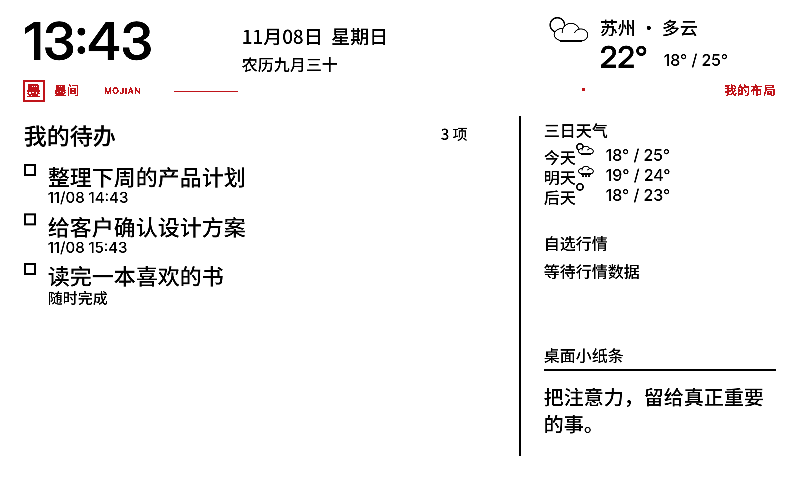
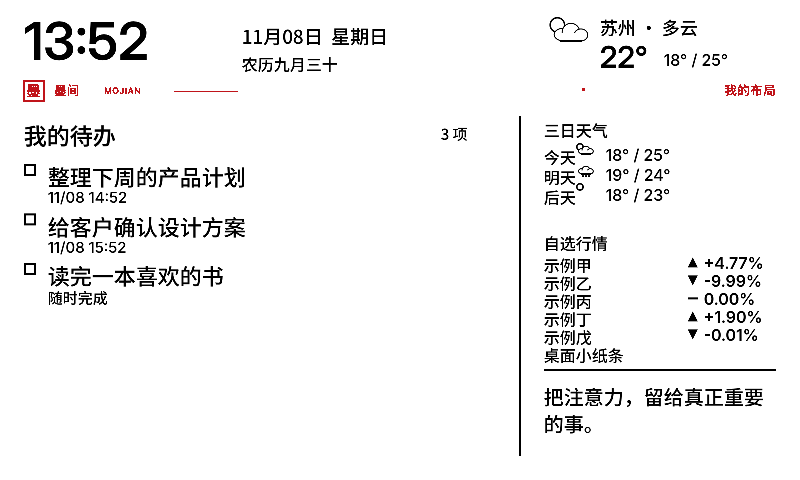
feat(ui): add stock empty state and fictional preview quotes
Collapse the stock footer metadata to '行情可能延迟 · Open-Meteo'
plus the update time/status, show one clear empty-state line when no
quotes are available, and render all public previews with five fictional
quotes so the five-column layout is visible. Mac and Android updated;
tests and builds pass; not written to the device.

diff --git a/macos/Sources/MoJianApp.swift b/macos/Sources/MoJianApp.swift
@@ -30,8 +30,9 @@ import AppKit
             settings.info.cards=["countdown","week"]
             settings.info.dates=[ImportantDate(title:"示例：产品发布",date:now.addingTimeInterval(12*86400))]
             let weather=WeatherSnapshot(temperature:22,code:2,days:[DayForecast(date:"2026-10-17",low:18,high:25,code:2),DayForecast(date:"2026-10-18",low:19,high:24,code:61),DayForecast(date:"2026-10-19",low:18,high:23,code:0)],fetched:now)
-            for layout in DeskLayout.allCases {settings.layout=layout;let content=ScreenContent(tasks:tasks,settings:settings,weather:weather,quotes:[],now:now);try? ScreenRenderer.savePNG(ScreenRenderer.render(content),to:directory.appendingPathComponent(layout.rawValue+".png"))}
-            let content=ScreenContent(tasks:tasks,settings:settings,weather:weather,quotes:[],now:now,afterHours:true)
+            let quotes=[StockQuote(code:"sh600519",name:"示例甲",price:1688.00,change:76.80,percent:4.77,asOf:"20261029150000"),StockQuote(code:"sz000001",name:"示例乙",price:9.87,change:-1.10,percent:-9.99,asOf:"20261029150000"),StockQuote(code:"sh603893",name:"示例丙",price:500000.99,change:0,percent:0,asOf:"20261029150000"),StockQuote(code:"sz002273",name:"示例丁",price:18.76,change:0.35,percent:1.90,asOf:"20261029150000"),StockQuote(code:"sh688234",name:"示例戊",price:2.34,change:-0.01,percent:-0.01,asOf:"20261029150000")]
+            for layout in DeskLayout.allCases {settings.layout=layout;let content=ScreenContent(tasks:tasks,settings:settings,weather:weather,quotes:quotes,now:now);try? ScreenRenderer.savePNG(ScreenRenderer.render(content),to:directory.appendingPathComponent(layout.rawValue+".png"))}
+            let content=ScreenContent(tasks:tasks,settings:settings,weather:weather,quotes:quotes,now:now,afterHours:true)
             try? ScreenRenderer.savePNG(ScreenRenderer.render(content),to:directory.appendingPathComponent("calendar.png"));print("Exported illustrative layout previews, not live data");exit(0)
         }
     }

diff --git a/macos/Sources/ScreenRenderer.swift b/macos/Sources/ScreenRenderer.swift
@@ -114,10 +114,11 @@ private struct Painter {
         if let stamp=c.quotes.map({$0.asOf}).min(),stamp.count==14 {
             time=String(stamp.dropFirst(4).prefix(2))+"/"+String(stamp.dropFirst(6).prefix(2))+" "+String(stamp.dropFirst(8).prefix(2))+":"+String(stamp.dropFirst(10).prefix(2))
         }
-        text("行情可能延迟",24,404,15,210,18)
-        text("天气 Open-Meteo",260,404,15,220,18)
-        text(time,572,404,15,204,18)
+        let empty=c.quotes.isEmpty
+        text("行情可能延迟 · Open-Meteo",24,404,15,540,18)
+        if !empty{text(time,576,404,15,200,18)}
         rule(24,422,752)
+        if empty{text("行情待更新 · 稍后自动刷新",24,441,18,752,24);return}
         for i in 0..<5 {
             let x:CGFloat=24+CGFloat(i)*152
             if i<c.quotes.count {

diff --git a/android/app/src/main/java/com/desktodo/app/DeskRenderer.java b/android/app/src/main/java/com/desktodo/app/DeskRenderer.java
@@ -35,7 +35,7 @@ final class DeskRenderer {
  void clock(){clear(24,0,208,80);text(DateTimeFormatter.ofPattern("HH:mm").withZone(ZoneId.of("Asia/Shanghai")).format(now),24,10,52,200,true);}
  void weather(float x,float y,float width)throws Exception{if(weather==null)return;clear(x,y,width,66);JSONObject cur=weather.getJSONObject("current");text(weather.optString("city",cfg.optString("city"))+" · "+DeskApi.weatherText(cur.optInt("weather_code")),x,y,18,width);text(Math.round(cur.getDouble("temperature_2m"))+"°",x,y+25,30,width,true);}
  void stockArrow(double percent,float x,float y){p.setColor(Color.BLACK);p.setStyle(Paint.Style.FILL);if(percent==0){c.drawRect(x,y+4,x+10,y+6,p);return;}Path arrow=new Path();arrow.moveTo(x,y+(percent>0?10:0));arrow.lineTo(x+5,y+(percent>0?0:10));arrow.lineTo(x+10,y+(percent>0?10:0));arrow.close();c.drawPath(arrow,p);}
- void stocks()throws Exception{if(quotes.length()==0&&!cfg.optBoolean("stockConfigured"))return;clear(24,404,752,76);text("行情可能延迟",24,404,15,210);text("天气 Open-Meteo",260,404,15,220);text("手机同步",650,404,15,126);rule(24,422,752,false);for(int i=0;i<5;i++){int x=24+i*152;if(i<quotes.length()){JSONObject q=quotes.getJSONObject(i);double percent=q.getDouble("percent");text(q.getString("name"),x,423,16,145);text(String.format(Locale.US,"%.2f",q.getDouble("price")),x,441,18,145,true);stockArrow(percent,x,465);text(percent==0?"0.00%":String.format(Locale.US,"%+.2f%%",percent),x+16,460,16,129,true);}else{text("未配置",x,423,16,145);text("—",x,444,18,145);}}}
+ void stocks()throws Exception{if(quotes.length()==0&&!cfg.optBoolean("stockConfigured"))return;clear(24,404,752,76);text("行情可能延迟 · Open-Meteo",24,404,15,600);text("手机同步",648,404,15,128);rule(24,422,752,false);if(quotes.length()==0){text("行情待更新 · 稍后自动刷新",24,441,18,752);return;}for(int i=0;i<5;i++){int x=24+i*152;if(i<quotes.length()){JSONObject q=quotes.getJSONObject(i);double percent=q.getDouble("percent");text(q.getString("name"),x,423,16,145);text(String.format(Locale.US,"%.2f",q.getDouble("price")),x,441,18,145,true);stockArrow(percent,x,465);text(percent==0?"0.00%":String.format(Locale.US,"%+.2f%%",percent),x+16,460,16,129,true);}else{text("未配置",x,423,16,145);text("—",x,444,18,145);}}}
  void infoPatch(String id)throws Exception{String k=DeskModel.kind(id);if(k.equals("calendar")){if(id.endsWith(".phone"))weather(548,14,228);else weather(24,405,280);return;}clock();weather(548,14,228);if(!k.equals("custom"))stocks();}
  void lines(String body,float x,float y,float size,float width,int limit){
   if(width<1||limit<1)return;

diff --git a/README.md b/README.md
@@ -28,7 +28,7 @@ Mac 与 Android 均可独立通过局域网直连 ESP32，不需要同时运行 
 
 ## 本轮更新
 
-- **屏幕可读性（Phase 1）**：行情辅助字 15px、文案更短；Mac 万年历右侧重复月份改为“月历”，日期 20px、`休` 14px；今日安排不再重复显示时间，跨天显示“明天/M月d日”，逾期显示“已逾期”。Mac/Android 已同步构建，应用布局一次后生效。
+- **屏幕可读性（Phase 1）**：行情辅助字 15px，合并为“行情可能延迟 · Open-Meteo”，空行情单行提示；Mac 万年历右侧重复月份改为“月历”，日期 20px、`休` 14px；今日安排不再重复显示时间，跨天显示“明天/M月d日”，逾期显示“已逾期”。预览改用五支虚构行情；Mac/Android 已同步构建，应用布局一次后生效。
 
 - **全刷温度对照**：新增默认关闭的 `esp32-l-gx-full-temp-ab`，仅在全刷刷新前写 GxEPD2 同型号的 `0xE0/0x41` 温度块，用于隔离"两组共用全刷"这一残影因素；`0x50` 涉及红色极性，暂不单独改。详见[全刷寄存器对照](docs/DISPLAY_FULL_REFRESH_AB.md)。
 

diff --git a/CHANGELOG.md b/CHANGELOG.md
@@ -4,7 +4,8 @@
 
 ## UI Phase 1（2026-11-08）
 
-- 行情区辅助字 14→15px、文案改为“行情可能延迟”；保留 16/18/16px 行情三行与五列。Mac/Android 同步。
+- 行情区辅助字 14→15px，合并为“行情可能延迟 · Open-Meteo”；空行情改为单行“行情待更新 · 稍后自动刷新”；保留 16/18/16px 行情三行与五列。Mac/Android 同步。
+- 预览改用五支虚构行情（示例甲…戊），公开图不再是空占位；Mac 重建、测试与 Android assembleDebug 通过。
 - Mac 万年历右侧重复月份改为“月历”16px；日期 18→20px、`休` 13→14px。Android 六行日历暂留 18px，待 Phase 2 网格重排。
 - 今日安排的任务第二行不再重复 `10/17 20:22`：今天只保留左侧时间，跨天显示“明天/M月d日”，逾期显示“已逾期”。Mac/Android 同步。
 - 重新生成虚构预览；Mac 构建与隔离测试通过，Android assembleDebug 通过。未写屏；应用一次布局生效。

diff --git a/docs/UI_OPTIMIZATION_2026-11-08.md b/docs/UI_OPTIMIZATION_2026-11-08.md
@@ -138,7 +138,7 @@ Phase 1 不触碰红色静态资源、不改布局 ID、不改刷新波形；应
 
 ## 实施记录（2026-11-08）
 
-- Phase 1 已实施：行情辅助字 15px、文案“行情可能延迟”（Mac/Android）；Mac 万年历右侧改为“月历”、日期 20px、`休` 14px。
+- Phase 1 已实施：行情辅助字 15px，合并为“行情可能延迟 · Open-Meteo”；空行情单行提示；Mac 万年历右侧改为“月历”、日期 20px、`休` 14px；预览改为五支虚构行情。
 - 行情三行仍为 16/18/16px，遵守项目可读性约定；没有把价格改成 19px。
 - Android 六行日历仍为 18px/22px 行距，避免六周内容压到 423px 脚注；留到 Phase 2 重排。
 - 今日安排第二行不再重复时间：今天只保留左侧时间，跨天显示“明天/M月d日”，逾期显示“已逾期”；Mac/Android 同步。
